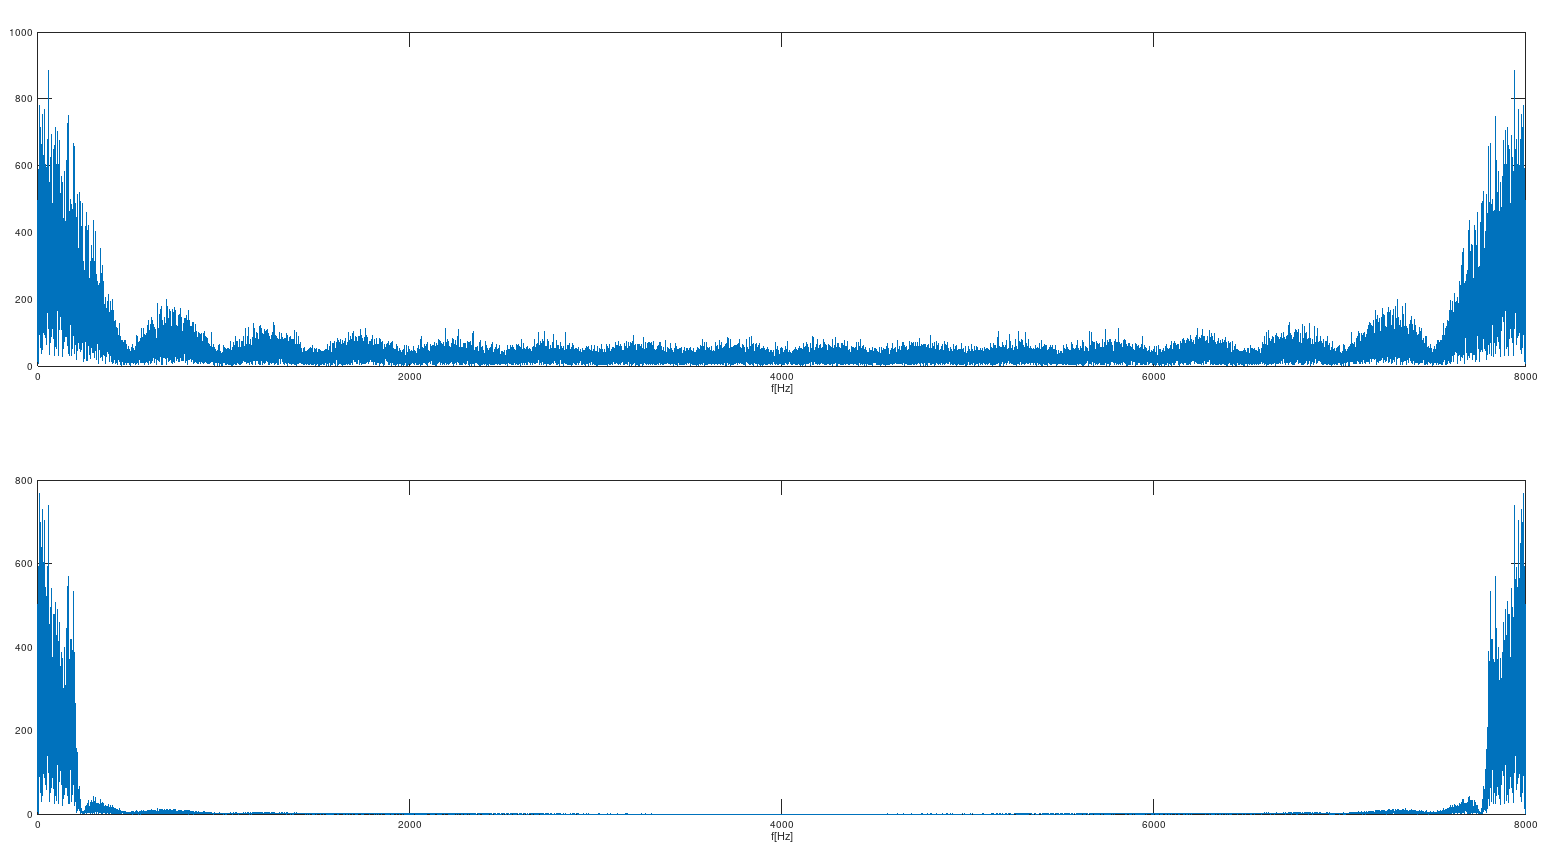
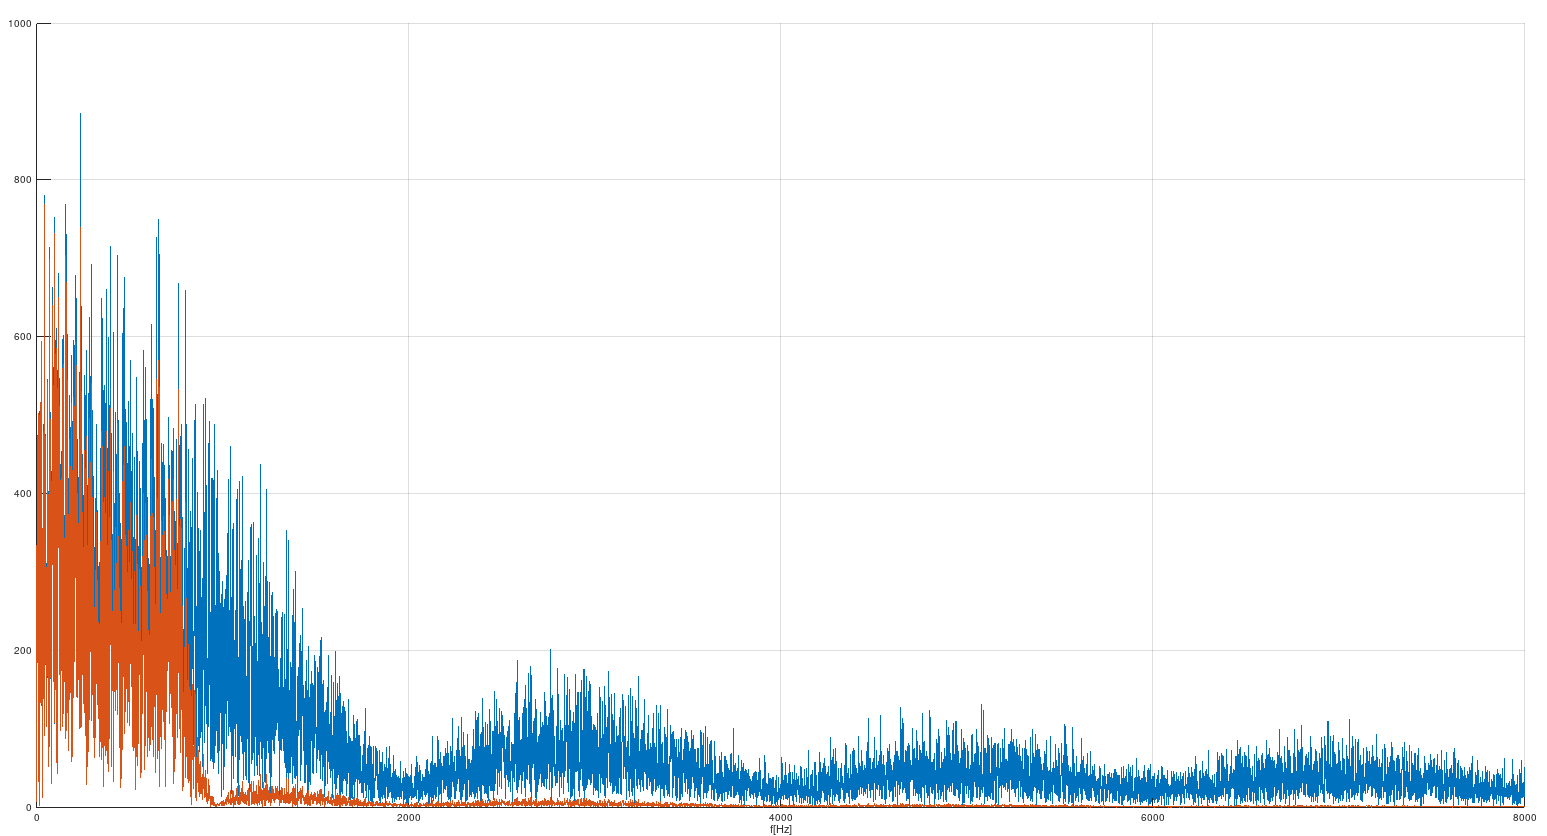
protocol

diff --git a/protocol/protocol.tex b/protocol/protocol.tex
@@ -4,59 +4,64 @@
 \usepackage[IL2]{fontenc}
 \usepackage[utf8]{inputenc}
 \usepackage{svg, amsmath, amsthm, amssymb}
-\usepackage{times}
 
 \begin{document}
-\begin{titlepage}
-  \begin{center}
-	\includegraphics[origin=c,scale=0.5]{fit}
-	\\[60mm]
-    {\Huge Signály a systémy}\\[5mm]
-	{\Huge Protokol k projektu}\\[5mm]
-    \vspace{\stretch{0.618}}
-    \Large{2018}\hfill Matej Soroka (xsorok02)
-  \end{center}
-\end{titlepage}
-
-\section{}
+\twocolumn[
+	\begin{@twocolumnfalse}
+		\begin{center}
+			{\Large ISS Projekt 2018/19}\\
+			\vspace*{5px}
+			Matej Soroka $<$xsorok02$>$ \\
+			\vspace*{10px}
+		\end{center}
+	\end{@twocolumnfalse}
+]
+\begin{enumerate}
+\item
 Vzorkovacia frekvencia signálu: 16000Hz\\
-Dĺžka vo vzorkoch: 32000\\
+Dĺžka vo vzorkách: 32000\\
 Dĺžka v sekundách: 2\\
-Počet reprezentovaných binárnych symbolov: 2000
-\section{}
+Počet binárnych symbolov: 2000
+\item
 Signál preiterujem, s tým rozdielom že sa na začiatku posuniem o 8 vzoriek, a následne sa posuvám o 16 vzoriek po každej iterácii. V každej iterácii taktiež vyhodnocujem binárnu hodnotu podľa hodnoty signálu v danom bode a ukladám ju do poľa.
 \includegraphics[width=\linewidth]{2}
-\section{}
-Filter je \textbf{stabilný}, všetky póly sú vo vnútri jednotkovej kružnice, platí vzťah $ |p_k| < 1 $.
+\item
+Filter je \textbf{stabilný}, všetky póly sú vo vnútri jednotkovej kružnice, graf som vytvoril pomocou funkcie \texttt{zplane}.
 \includegraphics[width=\linewidth]{3}
-\section{}
-Filter je typu dolná priepusť, ako vidíme v grafe. Medzná frekvencia je 487.25Hz.
+\newpage
+\item
+Filter je typu \textbf{dolná priepusť}, ako vidíme v grafe. Medzná frekvencia je 487.25Hz.
 \includegraphics[width=\linewidth]{4}
-\section{}
+\item
 Využil som oneskorenie o 15 vzorkov. Snažil som sa o pretnutie osi x približne v čase 0.012s
-\section{}
+\item
 \includegraphics[width=\linewidth]{6}
-\section{}
+\item
 Kedže som signál posunul o viac ako 8 vzoriek, využil som o jednu vzorku menej.\\
 Počet chýb: 1999\\
 Celkový počet vzorkov: 83\\
-Chybovosť: 4.1521\%
-\section{}
-% TODO: ??? komentovat ako vyzeraju signaly
+Chybovosť: 4.1521
+\newpage
+\item
+Filtrovaný signál sa približuje k nule omnoho rýchlejšie, takmer okamžite po medznej frekvecnii, po ktorej stagnuje.
 \includegraphics[width=\linewidth]{8}
-\section{}
+\item
+Použitá funkcia \texttt{hist} s načítaným signálom.
 \includegraphics[width=\linewidth]{9}
-\section{}
+\item
+\texttt{[r, delay] = xcorr(s, 'biased');} Osa x limitovaná na $<$-50,50$>$
 \includegraphics[width=\linewidth]{10}
-\section{}
+\item
 $R[0] = 0.27099 \\
 R[1] = 0.097618 \\
 R[16] = 0.0065915$
-\section{}
+\item
 Využil som funkciu hist2 a funkciu plot3.
 \includegraphics[width=\linewidth]{12}
-\section{}
-hist2: check -- 2d integral should be 1 and is 1
-\section{}
+\item
+Overenie pomocou funkcie hist2 \\
+\texttt{hist2: check -- 2d integral should be 1 and is 1}
+\item
 Výsledok funkcie hist2 je 0.235146 a R1 z úlohy 10. je 0.23513. S prijateľnou odchýlkou po zaokrúhlení sú tieto hodnoty rovnaké.
+\end{enumerate}
 \end{document}

diff --git a/resolution.m b/resolution.m
@@ -2,39 +2,39 @@
 [signal, Fs] = audioread('xsorok02.wav'); s = signal';
 x = (0 : (length(s) - 1)) / Fs;
 len = length(s); % pocet vzorkov
-%
-% % 2
-  i = 8;
-  j = 1;
-  while i < len
-    if (s(i) > 0)
-      bit_samples(j) = 1;
-    else
-      bit_samples(j) = 0;
-    endif
-    % len(bit_samples); pocet bitovych symbolov
-    i = i + 16;
-    j = j + 1;
- endwhile
 
- stem_spaced = linspace(0, 0.02, 20);
- grid;
- plot(x(1:320), s(1:320));
- xlabel("t [s]");
- hold on
- stem(stem_spaced, bit_samples(1:20));
- hold off
+% 2
+i = 8;
+j = 1;
+while i < len
+	if (s(i) > 0)
+		bit_samples(j) = 1;
+		else
+		bit_samples(j) = 0;
+	endif
+	i = i + 16;
+	j = j + 1;
+endwhile
+% len(bit_samples); pocet bitovych symbolov
+
+stem_spaced = linspace(0, 0.02, 20);
+grid;
+plot(x(1:320), s(1:320));
+xlabel("t [s]");
+hold on
+stem(stem_spaced, bit_samples(1:20));
+hold off
 
 % 3
- B = [0.0192 -0.0185 -0.0185 0.0192];
- A = [1.0000 -2.8870 2.7997 -0.9113];
- zplane(B, A); xlabel('Reálna časť'); ylabel('Imaginárna časť');
- p = roots(A);
- if (isempty(p) | abs(p) < 1)
-  disp('3 - stabilny signal')
- else
-  disp('3 - nestabilny signal')
- end
+B = [0.0192 -0.0185 -0.0185 0.0192];
+A = [1.0000 -2.8870 2.7997 -0.9113];
+zplane(B, A); xlabel('Reálna časť'); ylabel('Imaginárna časť');
+p = roots(A);
+if (isempty(p) | abs(p) < 1)
+	disp('3 - stabilny signal')
+else
+	disp('3 - nestabilny signal')
+end
 
 % 4
 f = (0:len - 1) / len * Fs / 2;
@@ -48,13 +48,13 @@ filtered = filter(B, A, signal);
 i = 8;
 j = 1;
 while i < len
-   if (filtered(i) > 0)
-     bit_samples_filtered(j) = 1;
-   else
-     bit_samples_filtered(j) = 0;
-   endif
-   i = i + 16;
-   j = j + 1;
+	if (filtered(i) > 0)
+		bit_samples_filtered(j) = 1;
+	else
+		bit_samples_filtered(j) = 0;
+	endif
+	i = i + 16;
+	j = j + 1;
 endwhile
 plot(x, s); xlim([0, 0.02]);
 hold on
@@ -72,21 +72,23 @@ hold off
 % 7
 tmp = 0;
 for k = 1:1:1999
-   if (xor(bit_samples(k), bit_samples_filtered(k + 1)))
-     tmp = tmp + 1;
-   endif
- end
- disp((tmp / 1999) * 100); % pocet percent chybnych bitov 4.1521
+	if (xor(bit_samples(k), bit_samples_filtered(k + 1)))
+		tmp = tmp + 1;
+	endif
+end
+disp((tmp / 1999) * 100); % pocet percent chybnych bitov
 
 % 8
 dft = fft(signal);
 mag = abs(dft);
-plot(f, mag);
-xlabel("f[Hz]");
+hold on;
+grid;
+plot(mag(1:(Fs/2)));
 filtered_dft = fft(filtered);
 filteredMag = abs(filtered_dft);
-plot(f, filteredMag);
+plot(filteredMag(1:(Fs/2)));
 xlabel("f[Hz]");
+hold off;
 
 % 9
 plot(hist(signal, 100) / len);
@@ -111,3 +113,4 @@ colorbar;
 
 % 13
 printf("13 - %d\n", r);
+
